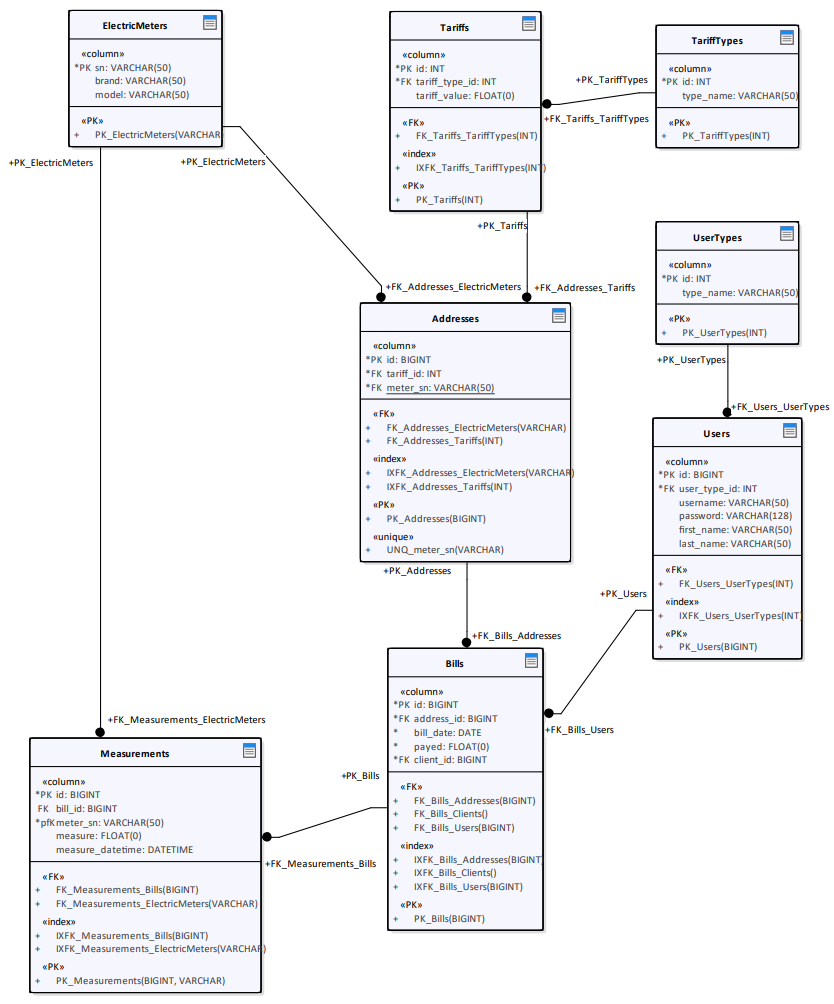
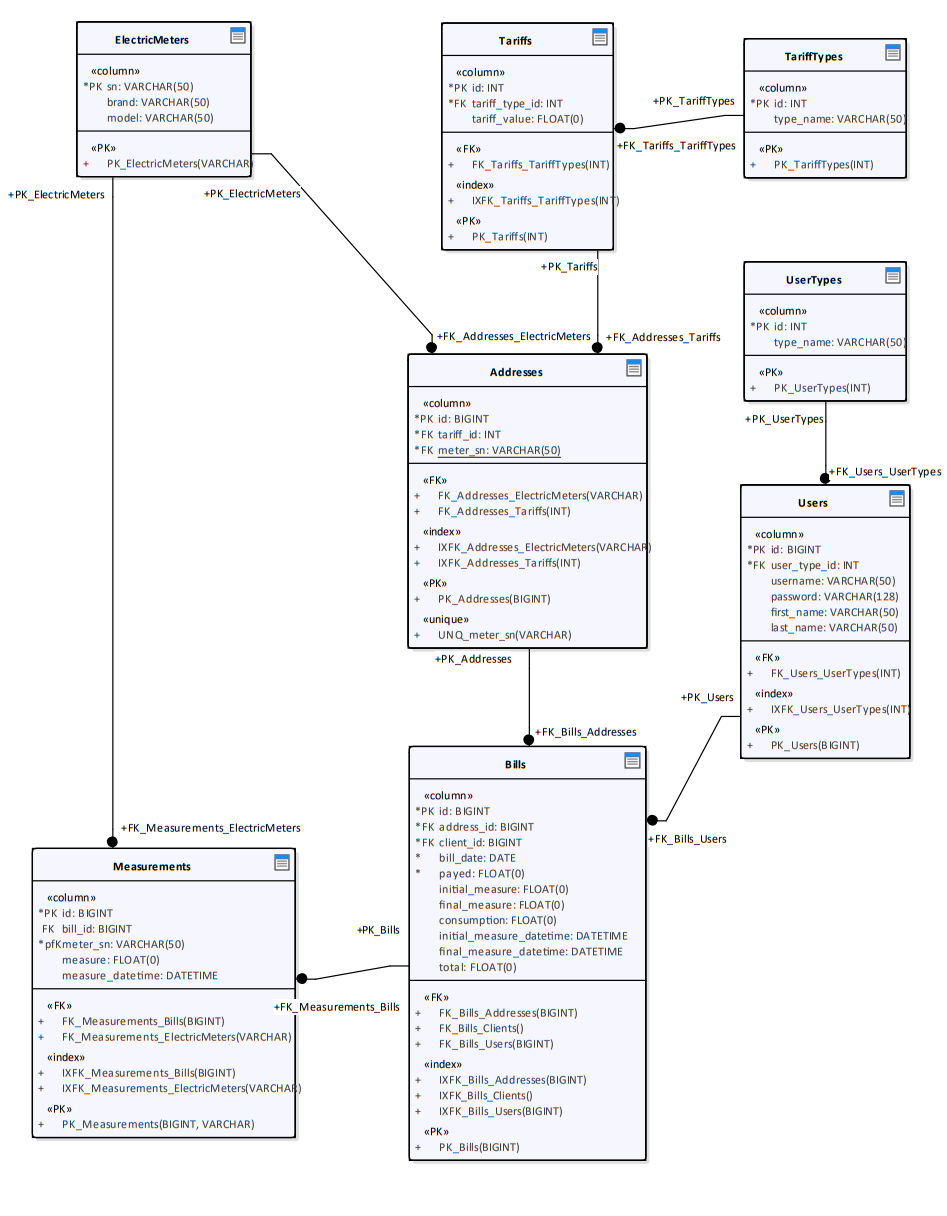
Added persistency to Tariff and TariffType.

Changed region(s): [[0.0, 0.0, 0.9976, 1.0], [0.3741, 0.2161, 0.4053, 0.247], [0.3429, 0.1853, 0.3741, 0.2161]]

diff --git a/src/test/java/ar/edu/utn/mdp/udee/service/TariffServiceTest.java b/src/test/java/ar/edu/utn/mdp/udee/service/TariffServiceTest.java
@@ -1,0 +1,168 @@
+package ar.edu.utn.mdp.udee.service;
+
+import ar.edu.utn.mdp.udee.model.Tariff;
+import ar.edu.utn.mdp.udee.repository.TariffRepository;
+import org.junit.Assert;
+import org.junit.Test;
+import org.springframework.data.domain.Example;
+import org.springframework.data.domain.Page;
+import org.springframework.data.domain.Pageable;
+import org.springframework.data.domain.Sort;
+
+import java.util.ArrayList;
+import java.util.List;
+import java.util.Optional;
+
+public class TariffServiceTest {
+
+    @Test
+    public void getTariffsTest() {
+        // Arrange
+        TariffRepository tariffRepository = new TariffRepository() {
+            @Override
+            public List<Tariff> findAll() {
+                List<Tariff> tariffs = new ArrayList<>();
+
+                Tariff tariff1 = new Tariff();
+                Tariff tariff2 = new Tariff();
+
+                tariff1.setValue(5f);
+                tariff2.setValue(10f);
+
+                tariffs.add(tariff1);
+                tariffs.add(tariff2);
+
+                return tariffs;
+            }
+
+            @Override
+            public List<Tariff> findAll(Sort sort) {
+                return null;
+            }
+
+            @Override
+            public List<Tariff> findAllById(Iterable<Integer> integers) {
+                return null;
+            }
+
+            @Override
+            public <S extends Tariff> List<S> saveAll(Iterable<S> entities) {
+                return null;
+            }
+
+            @Override
+            public void flush() {
+
+            }
+
+            @Override
+            public <S extends Tariff> S saveAndFlush(S entity) {
+                return null;
+            }
+
+            @Override
+            public void deleteInBatch(Iterable<Tariff> entities) {
+
+            }
+
+            @Override
+            public void deleteAllInBatch() {
+
+            }
+
+            @Override
+            public Tariff getOne(Integer integer) {
+                return null;
+            }
+
+            @Override
+            public <S extends Tariff> List<S> findAll(Example<S> example) {
+                return null;
+            }
+
+            @Override
+            public <S extends Tariff> List<S> findAll(Example<S> example, Sort sort) {
+                return null;
+            }
+
+            @Override
+            public Page<Tariff> findAll(Pageable pageable) {
+                return null;
+            }
+
+            @Override
+            public <S extends Tariff> S save(S entity) {
+                return null;
+            }
+
+            @Override
+            public Optional<Tariff> findById(Integer integer) {
+                return Optional.empty();
+            }
+
+            @Override
+            public boolean existsById(Integer integer) {
+                return false;
+            }
+
+            @Override
+            public long count() {
+                return 0;
+            }
+
+            @Override
+            public void deleteById(Integer integer) {
+
+            }
+
+            @Override
+            public void delete(Tariff entity) {
+
+            }
+
+            @Override
+            public void deleteAll(Iterable<? extends Tariff> entities) {
+
+            }
+
+            @Override
+            public void deleteAll() {
+
+            }
+
+            @Override
+            public <S extends Tariff> Optional<S> findOne(Example<S> example) {
+                return Optional.empty();
+            }
+
+            @Override
+            public <S extends Tariff> Page<S> findAll(Example<S> example, Pageable pageable) {
+                return null;
+            }
+
+            @Override
+            public <S extends Tariff> long count(Example<S> example) {
+                return 0;
+            }
+
+            @Override
+            public <S extends Tariff> boolean exists(Example<S> example) {
+                return false;
+            }
+        };
+        TariffService tariffService = new TariffService(tariffRepository);
+        List<Tariff> tariffs = null;
+
+        // Act
+        try {
+            tariffs = tariffService.getTariffs();
+        } catch (Exception e) {
+            Assert.fail(e.getMessage());
+        }
+
+        // Assert
+        Assert.assertNotNull(tariffs);
+        Assert.assertEquals(tariffs.get(0).getValue(), 5f, 0);
+        Assert.assertEquals(tariffs.get(1).getValue(), 10f, 0);
+    }
+}

diff --git a/src/main/java/ar/edu/utn/mdp/udee/controller/TariffController.java b/src/main/java/ar/edu/utn/mdp/udee/controller/TariffController.java
@@ -1,0 +1,54 @@
+package ar.edu.utn.mdp.udee.controller;
+
+import ar.edu.utn.mdp.udee.model.Tariff;
+import ar.edu.utn.mdp.udee.model.TariffType;
+import ar.edu.utn.mdp.udee.service.TariffService;
+import ar.edu.utn.mdp.udee.service.TariffTypeService;
+import org.springframework.beans.factory.annotation.Autowired;
+import org.springframework.web.bind.annotation.*;
+
+import java.util.List;
+
+@RestController
+@RequestMapping("/tariff")
+public class TariffController {
+
+    private TariffService tariffService;
+    private TariffTypeService tariffTypeService;
+
+    @Autowired
+    public TariffController(TariffService tariffService, TariffTypeService tariffTypeService) {
+        this.tariffService = tariffService;
+        this.tariffTypeService = tariffTypeService;
+    }
+
+    @GetMapping
+    public List<Tariff> getTariffs() {
+        return tariffService.getTariffs();
+    }
+
+    @GetMapping("/{id}")
+    public Tariff getTariffById(@PathVariable Integer id) {
+        return tariffService.getTariffById(id);
+    }
+
+    @PostMapping
+    public Integer addTariff(@RequestBody Tariff tariff) {
+        return tariffService.addTariff(tariff);
+    }
+
+    @GetMapping("/type")
+    public List<TariffType> getTariffTypes() {
+        return tariffTypeService.getTariffTypes();
+    }
+
+    @GetMapping("/type/{id}")
+    public TariffType getTariffTypeById(@PathVariable Integer id) {
+        return tariffTypeService.getTariffTypeById(id);
+    }
+
+    @PostMapping("/type")
+    public Integer addTariffType(@RequestBody TariffType tariffType) {
+        return tariffTypeService.addTariffType(tariffType);
+    }
+}

diff --git a/src/main/java/ar/edu/utn/mdp/udee/service/TariffTypeService.java b/src/main/java/ar/edu/utn/mdp/udee/service/TariffTypeService.java
@@ -1,0 +1,31 @@
+package ar.edu.utn.mdp.udee.service;
+
+import ar.edu.utn.mdp.udee.model.TariffType;
+import ar.edu.utn.mdp.udee.repository.TariffTypeRepository;
+import org.springframework.beans.factory.annotation.Autowired;
+import org.springframework.stereotype.Service;
+
+import java.util.List;
+
+@Service
+public class TariffTypeService {
+
+    private TariffTypeRepository tariffTypeRepository;
+
+    @Autowired
+    public TariffTypeService(TariffTypeRepository tariffTypeRepository) {
+        this.tariffTypeRepository = tariffTypeRepository;
+    }
+
+    public List<TariffType> getTariffTypes() {
+        return tariffTypeRepository.findAll();
+    }
+
+    public TariffType getTariffTypeById(Integer id) {
+        return tariffTypeRepository.findById(id).orElse(null);
+    }
+
+    public Integer addTariffType(TariffType tariffType) {
+        return tariffTypeRepository.save(tariffType).getId();
+    }
+}

diff --git a/src/main/java/ar/edu/utn/mdp/udee/service/TariffService.java b/src/main/java/ar/edu/utn/mdp/udee/service/TariffService.java
@@ -1,0 +1,31 @@
+package ar.edu.utn.mdp.udee.service;
+
+import ar.edu.utn.mdp.udee.model.Tariff;
+import ar.edu.utn.mdp.udee.repository.TariffRepository;
+import org.springframework.beans.factory.annotation.Autowired;
+import org.springframework.stereotype.Service;
+
+import java.util.List;
+
+@Service
+public class TariffService {
+
+    private TariffRepository tariffRepository;
+
+    @Autowired
+    public TariffService(TariffRepository tariffRepository) {
+        this.tariffRepository = tariffRepository;
+    }
+
+    public List<Tariff> getTariffs() {
+        return tariffRepository.findAll();
+    }
+
+    public Integer addTariff(Tariff tariff) {
+        return tariffRepository.save(tariff).getId();
+    }
+
+    public Tariff getTariffById(Integer id) {
+        return tariffRepository.findById(id).orElse(null);
+    }
+}

diff --git a/src/main/java/ar/edu/utn/mdp/udee/model/Tariff.java b/src/main/java/ar/edu/utn/mdp/udee/model/Tariff.java
@@ -14,7 +14,7 @@ public class Tariff {
 
     @Id
     @GeneratedValue(strategy = GenerationType.IDENTITY)
-    private Integer id;
+    private int id;
 
     @ManyToOne(fetch = FetchType.EAGER)
     @JoinColumn(name = "tariff_type_id", referencedColumnName = "id")
@@ -22,5 +22,5 @@ public class Tariff {
 
     @NotNull(message = "Field value is required.")
     @Min(value = 0, message = "Field value must be a positive number.")
-    private Float value;
+    private float value;
 }

diff --git a/src/main/java/ar/edu/utn/mdp/udee/repository/TariffTypeRepository.java b/src/main/java/ar/edu/utn/mdp/udee/repository/TariffTypeRepository.java
@@ -1,0 +1,9 @@
+package ar.edu.utn.mdp.udee.repository;
+
+import ar.edu.utn.mdp.udee.model.TariffType;
+import org.springframework.data.jpa.repository.JpaRepository;
+import org.springframework.stereotype.Repository;
+
+@Repository
+public interface TariffTypeRepository extends JpaRepository<TariffType, Integer> {
+}

diff --git a/src/main/java/ar/edu/utn/mdp/udee/repository/TariffRepository.java b/src/main/java/ar/edu/utn/mdp/udee/repository/TariffRepository.java
@@ -1,0 +1,9 @@
+package ar.edu.utn.mdp.udee.repository;
+
+import ar.edu.utn.mdp.udee.model.Tariff;
+import org.springframework.data.jpa.repository.JpaRepository;
+import org.springframework.stereotype.Repository;
+
+@Repository
+public interface TariffRepository extends JpaRepository<Tariff, Integer> {
+}

diff --git a/src/main/java/ar/edu/utn/mdp/udee/model/Measurement.java b/src/main/java/ar/edu/utn/mdp/udee/model/Measurement.java
@@ -18,7 +18,6 @@ public class Measurement {
     @GeneratedValue(strategy = GenerationType.IDENTITY)
     private Integer id;
 
-    @Id
     @ManyToOne(fetch = FetchType.EAGER)
     @JoinColumn(name = "electricMeter_id", referencedColumnName = "id")
     private ElectricMeter electricMeter;

diff --git a/src/test/java/ar/edu/utn/mdp/udee/controller/TariffControllerTest.java b/src/test/java/ar/edu/utn/mdp/udee/controller/TariffControllerTest.java
@@ -1,0 +1,4 @@
+package ar.edu.utn.mdp.udee.controller;
+
+public class TariffControllerTest {
+}
